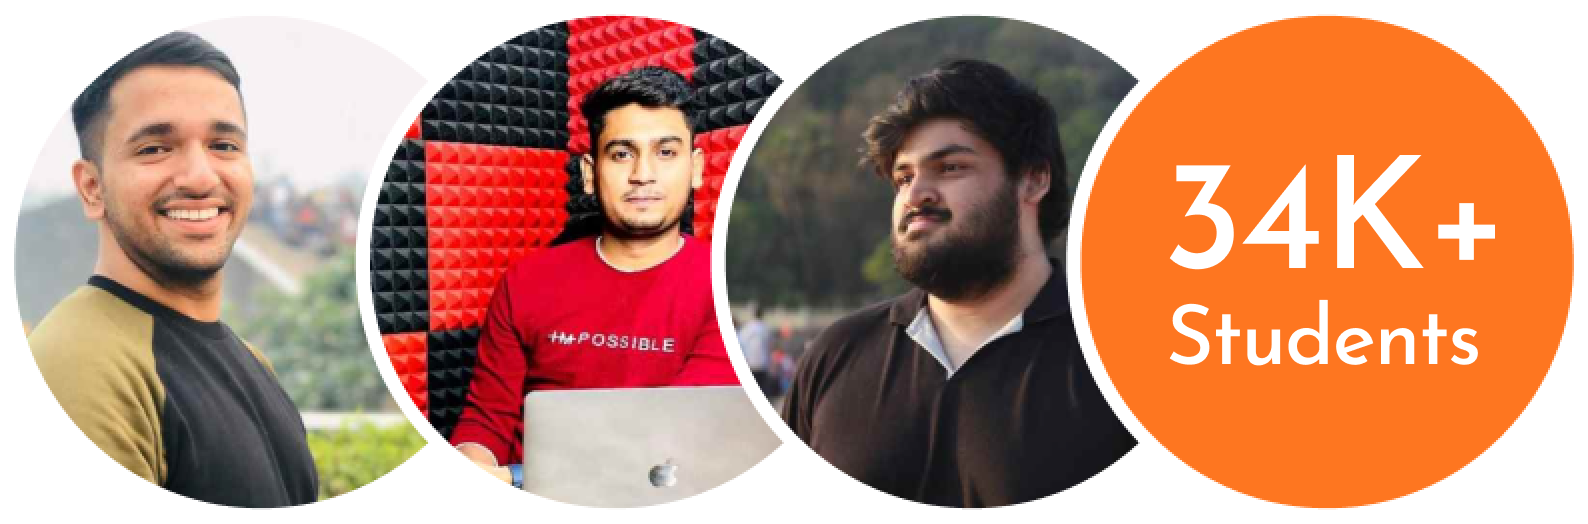
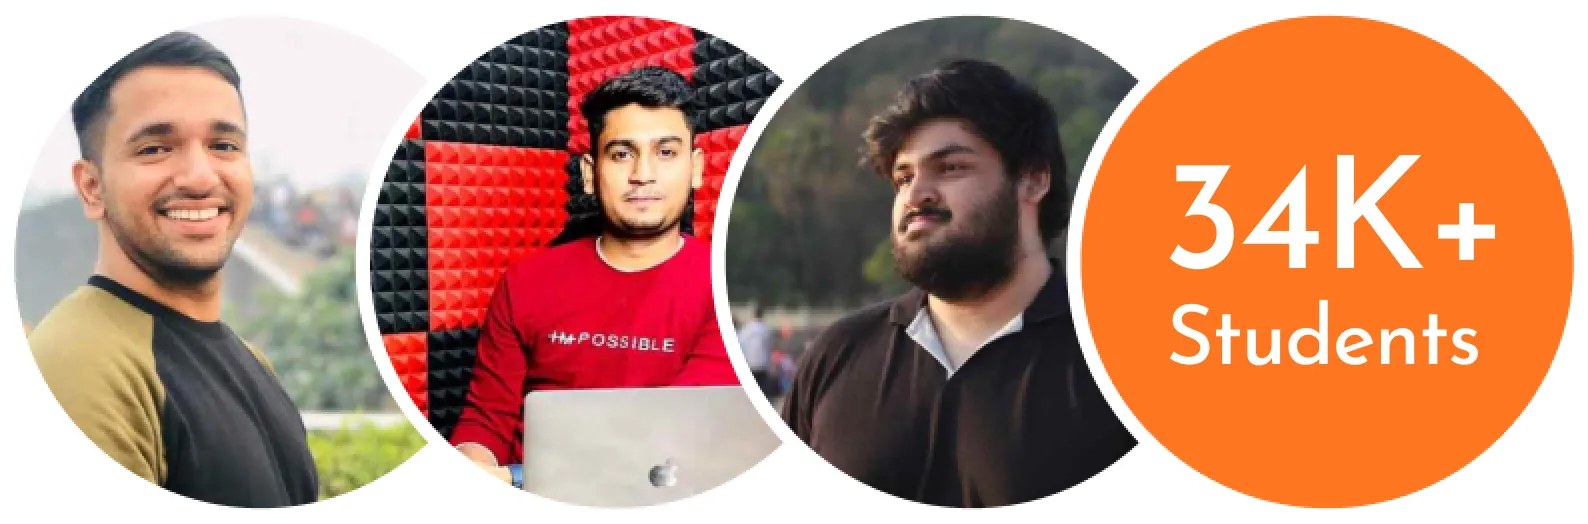
optimized  courses header component images stashed

diff --git a/src/app/[slug]/courseDetailsPage/Header/Header.jsx b/src/app/[slug]/courseDetailsPage/Header/Header.jsx
@@ -211,12 +211,17 @@ const Header = () => {
 
   return (
     <>
-      {/* Offer Banner */}
-      <div className={style.headerContainer}>
-        <Image src={BackgroundImg} alt="Background" className={style.backgroundImage} />
+      
+        <div className={style.headerContainer}>
+          <Image 
+            src={BackgroundImg} 
+            alt="Background" 
+            className={style.backgroundImage}
+            loading="lazy"
+          />
 
-        <div className="row d-flex justify-content-center mt-4">
-          {/* Offer Banner inside the card at top */}
+          <div className="row d-flex justify-content-center mt-4">
+            {/* Offer Banner inside the card at top */}
           <div
             className={`px-5 py-4 d-flex flex-column flex-md-row col-11 col-md-12 col-lg-10 col-xl-8 bg-white vh-75 rounded-4 shadow position-relative ${style.card}`}
             style={{ zIndex: 10 }}
@@ -373,7 +378,7 @@ const Header = () => {
             <div className="col-md-6 d-flex justify-content-center align-items-center mt-5">
               <div className={`${style.HeaderPicture} text-center`}>
                 {card && (
-                  <Image src={awardImage} alt="Course" className={`img-fluid ${style.headerImage} shadow`} />
+                  <Image src={awardImage} alt="Course" className={`img-fluid ${style.headerImage} shadow`} loading="lazy" />
                 )}
                 <div className={style.EnrollButtonContent}>
                   {card && !isSmallScreen && (
@@ -385,7 +390,7 @@ const Header = () => {
                     />
                   )}
                   <span>
-                    <Image src={FollowerImg} alt="Follower group" className={style.FollowerImage} />
+                    <Image src={FollowerImg} alt="Follower group" className={style.FollowerImage} loading="lazy" />
                   </span>
                   <div className={style.reviewContainer}>
                     <div className={style.FollowerStars}>
@@ -396,6 +401,7 @@ const Header = () => {
                           alt="Star"
                           className={style.star}
                           style={{ color: 'gold' }}
+                          loading="lazy"
                         />
                       ))}
                     </div>
